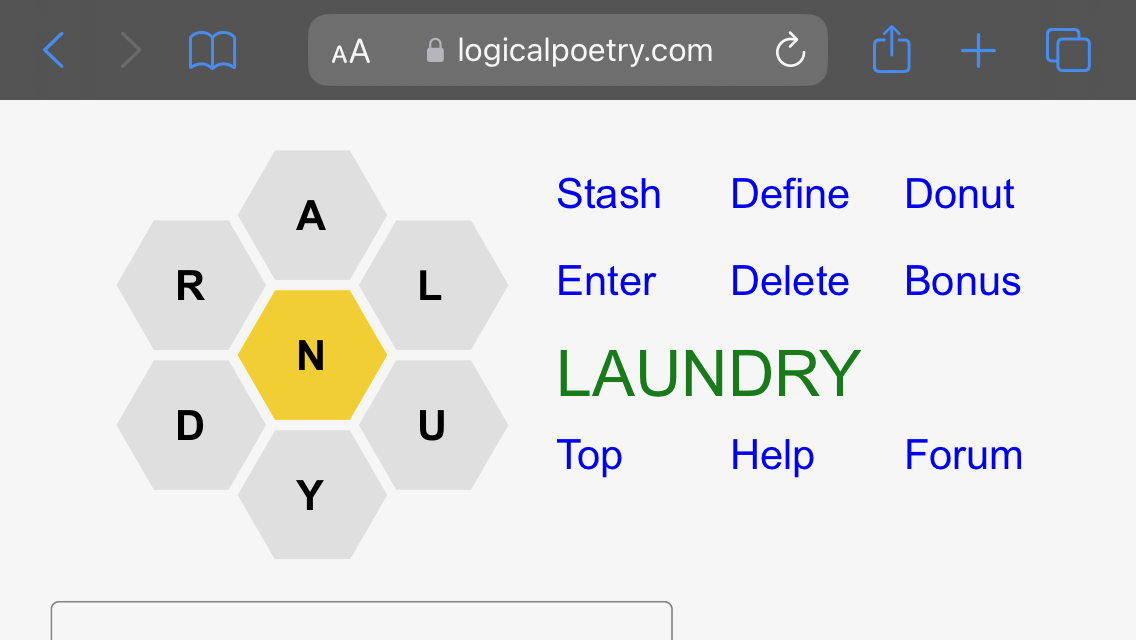
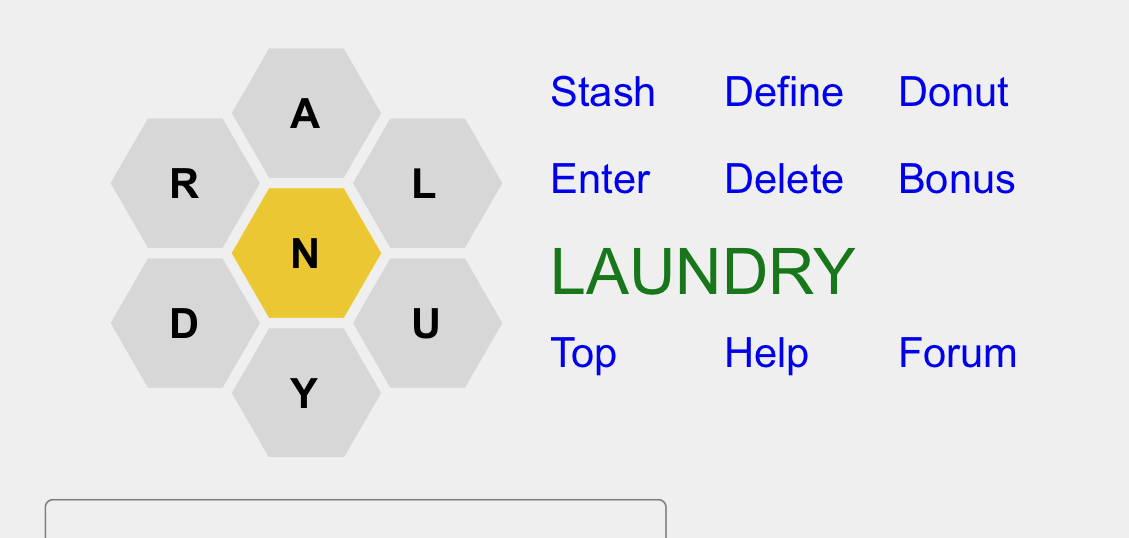
tweaked doc with new pics

diff --git a/nytbee/help.html b/nytbee/help.html
@@ -379,8 +379,7 @@ you can use the <span class=cmd>MO</span> command to toggle into "mobile mode".
 <p>
 If you are adept at texting with your thumbs you may prefer using the <span class=cmd>H</span> command to toggle between the hexagon and having the letters arranged in a line (as in normal words) - like this:
 <p>
-<!-- ignore the h3 - there used to be 4 ways of arranging the letters -->
-<img src=pics/kitchen_h3.png width=800 border=1>
+<img src=pics/laundry_h.png width=800 border=1>
 <a name=hint_commands></a>
 <h2>Hint Commands
 <a class=top href=#toc><img src=pics/top.gif height=25></a>
